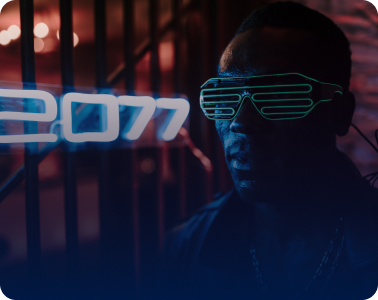
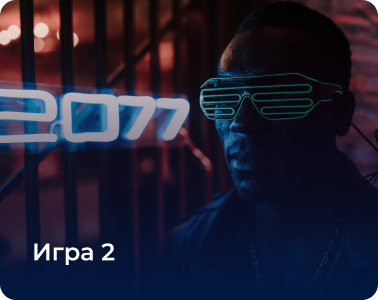
changes2.0

Changed region(s): [[0.0873, 0.81, 0.3201, 0.9]]

diff --git a/index.html b/index.html
@@ -14,14 +14,30 @@
 <body>
     <div class="top center">
         <h1 class="heading">Добро пожаловать на мой сайт !</h1>
-        <h2 class="about">Вам предстоит пройти несколько увлекательных игр. Если готов нажимай поехали и приступай</h2>
-        <button class="button__main">Поехали!</button>
+        <h2 class="about">Вам предстоит пройти несколько увлекательных игр. Если готов нажимай <a class="link__main" href="#">поехали</a> и <a class="link__main" href="#">приступай</a></h2>
+        <div class="button__main">
+            <a href="#">
+                <svg width="235" height="49" viewBox="0 0 235 49" fill="none" xmlns="http://www.w3.org/2000/svg">
+                    <rect y="0.107056" width="234.063" height="48.6031" rx="24.3015" fill="#9C0332"/>
+                    <path d="M86.7575 17.8086V30.4086H85.4435V18.9606H77.4695V30.4086H76.1555V17.8086H86.7575ZM94.609 30.4986C93.697 30.4986 92.875 30.2946 92.143 29.8866C91.411 29.4666 90.835 28.8906 90.415 28.1586C89.995 27.4266 89.785 26.5986 89.785 25.6746C89.785 24.7506 89.995 23.9226 90.415 23.1906C90.835 22.4586 91.411 21.8886 92.143 21.4806C92.875 21.0726 93.697 20.8686 94.609 20.8686C95.521 20.8686 96.343 21.0726 97.075 21.4806C97.807 21.8886 98.377 22.4586 98.785 23.1906C99.205 23.9226 99.415 24.7506 99.415 25.6746C99.415 26.5986 99.205 27.4266 98.785 28.1586C98.377 28.8906 97.807 29.4666 97.075 29.8866C96.343 30.2946 95.521 30.4986 94.609 30.4986ZM94.609 29.3646C95.281 29.3646 95.881 29.2146 96.409 28.9146C96.949 28.6026 97.369 28.1646 97.669 27.6006C97.969 27.0366 98.119 26.3946 98.119 25.6746C98.119 24.9546 97.969 24.3126 97.669 23.7486C97.369 23.1846 96.949 22.7526 96.409 22.4526C95.881 22.1406 95.281 21.9846 94.609 21.9846C93.937 21.9846 93.331 22.1406 92.791 22.4526C92.263 22.7526 91.843 23.1846 91.531 23.7486C91.231 24.3126 91.081 24.9546 91.081 25.6746C91.081 26.3946 91.231 27.0366 91.531 27.6006C91.843 28.1646 92.263 28.6026 92.791 28.9146C93.331 29.2146 93.937 29.3646 94.609 29.3646ZM110.426 26.0706H102.506C102.578 27.0546 102.956 27.8526 103.64 28.4646C104.324 29.0646 105.188 29.3646 106.232 29.3646C106.82 29.3646 107.36 29.2626 107.852 29.0586C108.344 28.8426 108.77 28.5306 109.13 28.1226L109.85 28.9506C109.43 29.4546 108.902 29.8386 108.266 30.1026C107.642 30.3666 106.952 30.4986 106.196 30.4986C105.224 30.4986 104.36 30.2946 103.604 29.8866C102.86 29.4666 102.278 28.8906 101.858 28.1586C101.438 27.4266 101.228 26.5986 101.228 25.6746C101.228 24.7506 101.426 23.9226 101.822 23.1906C102.23 22.4586 102.782 21.8886 103.478 21.4806C104.186 21.0726 104.978 20.8686 105.854 20.8686C106.73 20.8686 107.516 21.0726 108.212 21.4806C108.908 21.8886 109.454 22.4586 109.85 23.1906C110.246 23.9106 110.444 24.7386 110.444 25.6746L110.426 26.0706ZM105.854 21.9666C104.942 21.9666 104.174 22.2606 103.55 22.8486C102.938 23.4246 102.59 24.1806 102.506 25.1166H109.22C109.136 24.1806 108.782 23.4246 108.158 22.8486C107.546 22.2606 106.778 21.9666 105.854 21.9666ZM118.932 30.4086L115.926 26.4486L112.902 30.4086H111.462L115.206 25.5486L111.642 20.9406H113.082L115.926 24.6486L118.77 20.9406H120.174L116.61 25.5486L120.39 30.4086H118.932ZM125.566 20.8686C126.802 20.8686 127.75 21.1806 128.41 21.8046C129.07 22.4166 129.4 23.3286 129.4 24.5406V30.4086H128.176V28.9326C127.888 29.4246 127.462 29.8086 126.898 30.0846C126.346 30.3606 125.686 30.4986 124.918 30.4986C123.862 30.4986 123.022 30.2466 122.398 29.7426C121.774 29.2386 121.462 28.5726 121.462 27.7446C121.462 26.9406 121.75 26.2926 122.326 25.8006C122.914 25.3086 123.844 25.0626 125.116 25.0626H128.122V24.4866C128.122 23.6706 127.894 23.0526 127.438 22.6326C126.982 22.2006 126.316 21.9846 125.44 21.9846C124.84 21.9846 124.264 22.0866 123.712 22.2906C123.16 22.4826 122.686 22.7526 122.29 23.1006L121.714 22.1466C122.194 21.7386 122.77 21.4266 123.442 21.2106C124.114 20.9826 124.822 20.8686 125.566 20.8686ZM125.116 29.4906C125.836 29.4906 126.454 29.3286 126.97 29.0046C127.486 28.6686 127.87 28.1886 128.122 27.5646V26.0166H125.152C123.532 26.0166 122.722 26.5806 122.722 27.7086C122.722 28.2606 122.932 28.6986 123.352 29.0226C123.772 29.3346 124.36 29.4906 125.116 29.4906ZM140.543 20.9406V30.4086H139.265V22.0746H134.729L134.603 24.4146C134.507 26.3826 134.279 27.8946 133.919 28.9506C133.559 30.0066 132.917 30.5346 131.993 30.5346C131.741 30.5346 131.435 30.4866 131.075 30.3906L131.165 29.2926C131.381 29.3406 131.531 29.3646 131.615 29.3646C132.107 29.3646 132.479 29.1366 132.731 28.6806C132.983 28.2246 133.151 27.6606 133.235 26.9886C133.319 26.3166 133.391 25.4286 133.451 24.3246L133.613 20.9406H140.543ZM144.176 20.9406H145.454V28.4646L151.772 20.9406H152.906V30.4086H151.628V22.8846L145.328 30.4086H144.176V20.9406ZM156.334 17.8086H157.846L157.576 26.6286H156.586L156.334 17.8086ZM157.09 30.4986C156.826 30.4986 156.598 30.4086 156.406 30.2286C156.226 30.0366 156.136 29.8146 156.136 29.5626C156.136 29.2986 156.226 29.0826 156.406 28.9146C156.586 28.7346 156.814 28.6446 157.09 28.6446C157.354 28.6446 157.576 28.7346 157.756 28.9146C157.936 29.0826 158.026 29.2986 158.026 29.5626C158.026 29.8146 157.936 30.0366 157.756 30.2286C157.576 30.4086 157.354 30.4986 157.09 30.4986Z" fill="white"/>
+                    </svg>
+                    
+            </a>
+        </div>
     </div>
 
     <footer class="footer center">
-        <div class="product">Игра 1</div>
-        <div class="product">Игра 2</div>
-        <div class="product">Игра 3</div>
+        <div class="offers center">
+            <div class="product">
+                <img src="./images/game1_img.jpg" alt="product" class="product__img">
+            </div>
+            <div class="product">
+                <img src="./images/game2_img.jpg" alt="product" class="product__img">
+            </div>
+            <div class="product">
+                <img src="./images/game3_img.jpg" alt="product" class="product__img">
+            </div>
+        </div>
     </footer>
 </body>
 </html>

diff --git a/style.css b/style.css
@@ -1,40 +1,75 @@
 * {
-    margin: 0;
-    padding: 0;
+  margin: 0;
+  padding: 0;
+}
+
+.center {
+  padding-left: calc(50% - 720px);
+  padding-right: calc(50% - 720px);
 }
 
 .top {
-    height: 1024px;
-    background-image: url(images/background1.jpg);
-    background-repeat: no-repeat;
-    background-position: center;
-    background-size: cover;
+  height: 920px;
+  background-image: url(images/background1.jpg);
+  background-repeat: no-repeat;
+  background-position: center;
+  background-size: cover;
 }
 
 .heading {
-    width: 788px;
-    height: 125px;
-    font-size: 64px;
-    line-height: 78px;
-    color: white;
-    font-weight: 700;
-    padding-top: 217px;
-    padding-left: 120px;
+  width: 788px;
+  height: 125px;
+  font-size: 64px;
+  line-height: 78px;
+  color: white;
+  font-weight: 700;
+  padding-top: 217px;
+  padding-left: 120px;
 }
 
 .about {
-    width: 481px;
-    height: 64px;
-    font-size: 18px;
-    font-weight: 300;
-    color: #ffffff;
-    padding-left: 120px;
-    padding-top: 32px;
+  width: 481px;
+  height: 64px;
+  font-size: 18px;
+  font-weight: 300;
+  color: #ffffff;
+  padding-left: 120px;
+  padding-top: 32px;
 }
 
-.button__main {|
-    width: 234px;
-    height: 48px;
-    padding-left: 120px;
-    
+.link__main {
+  color: #ffffff;
+  text-decoration: none;
+  font-weight: 700;
 }
+
+.button__main {
+  width: 234px;
+  height: 48px;
+  padding-left: 120px;
+  padding-top: 44px;
+  padding-bottom: 494px;
+}
+
+.footer {
+  height: 556px;
+  background-image: url(images/background__bottom-1.jpg);
+  background-repeat: no-repeat;
+  background-position: center;
+  background-size: cover;
+}
+
+.offers {
+  display: flex;
+  gap: 32px;
+  padding-left: 120px;
+  padding-top: 128px;
+  padding-bottom: 128px;
+  padding-right: 128px;
+}
+
+.product__img {
+  width: 379px;
+  height: 300px;
+  border-radius: 16px;
+}/*# sourceMappingURL=style.css.map */

diff --git a/style.scss b/style.scss
@@ -1,0 +1,77 @@
+* {
+    margin: 0;
+    padding: 0;
+}
+
+.center {
+    padding-left: calc(50% - 720px);
+    padding-right: calc(50% - 720px);
+}
+
+.top {
+    height: 920px;
+    background-image: url(images/background1.jpg);
+    background-repeat: no-repeat;
+    background-position: center;
+    background-size: cover;
+}
+
+.heading {
+    width: 788px;
+    height: 125px;
+    font-size: 64px;
+    line-height: 78px;
+    color: white;
+    font-weight: 700;
+    padding-top: 217px;
+    padding-left: 120px;
+}
+
+.about {
+    width: 481px;
+    height: 64px;
+    font-size: 18px;
+    font-weight: 300;
+    color: #ffffff;
+    padding-left: 120px;
+    padding-top: 32px;
+}
+
+.link__main {
+    color: #ffffff;
+    text-decoration: none;
+    font-weight: 700;
+}
+
+.button__main {
+    width: 234px;
+    height: 48px;
+    padding-left: 120px;
+    padding-top: 44px;
+    padding-bottom: 494px;
+}
+
+.footer {
+    height: 556px;
+    background-image: url(images/background__bottom-1.jpg);
+    background-repeat: no-repeat;
+    background-position: center;
+    background-size: cover;
+
+}
+
+.offers {
+    display: flex;
+    gap: 32px;
+    padding-left: 120px;
+    padding-top: 128px;
+    padding-bottom: 128px;
+    padding-right: 128px;
+}
+
+
+.product__img {
+    width: 379px;
+    height: 300px;
+    border-radius: 16px;
+}
